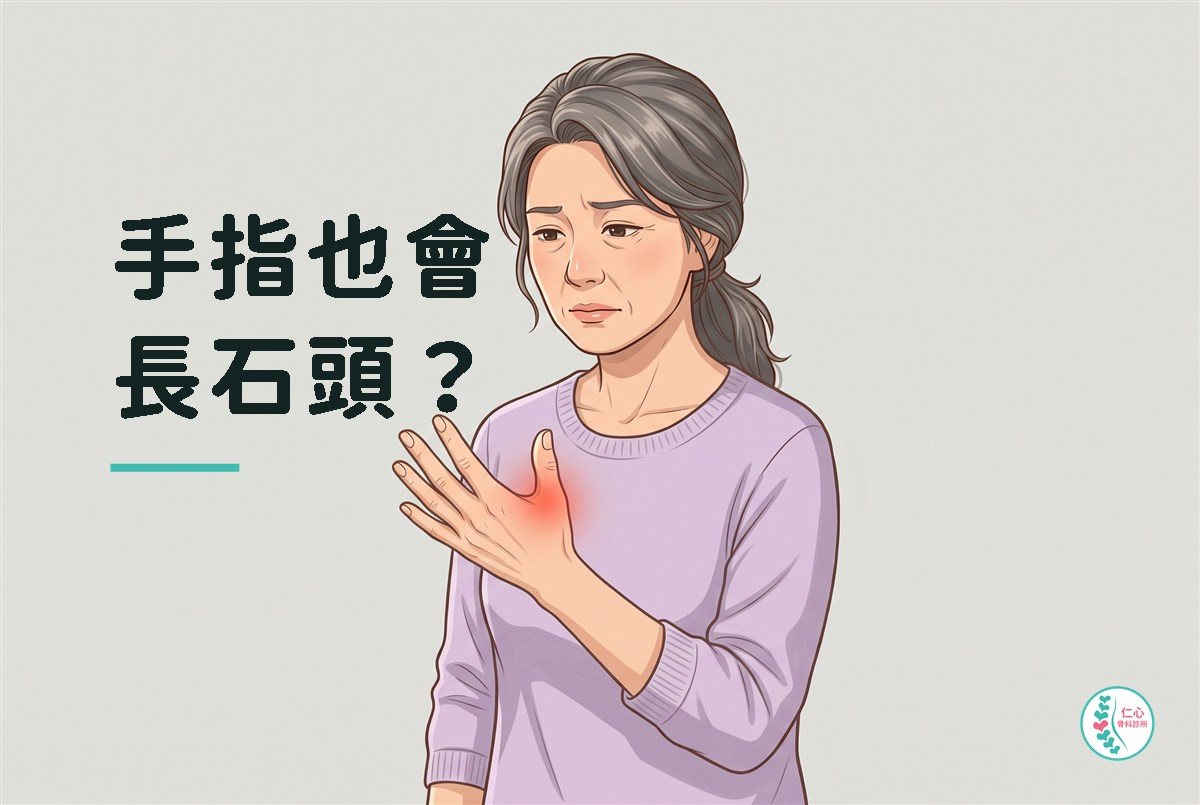
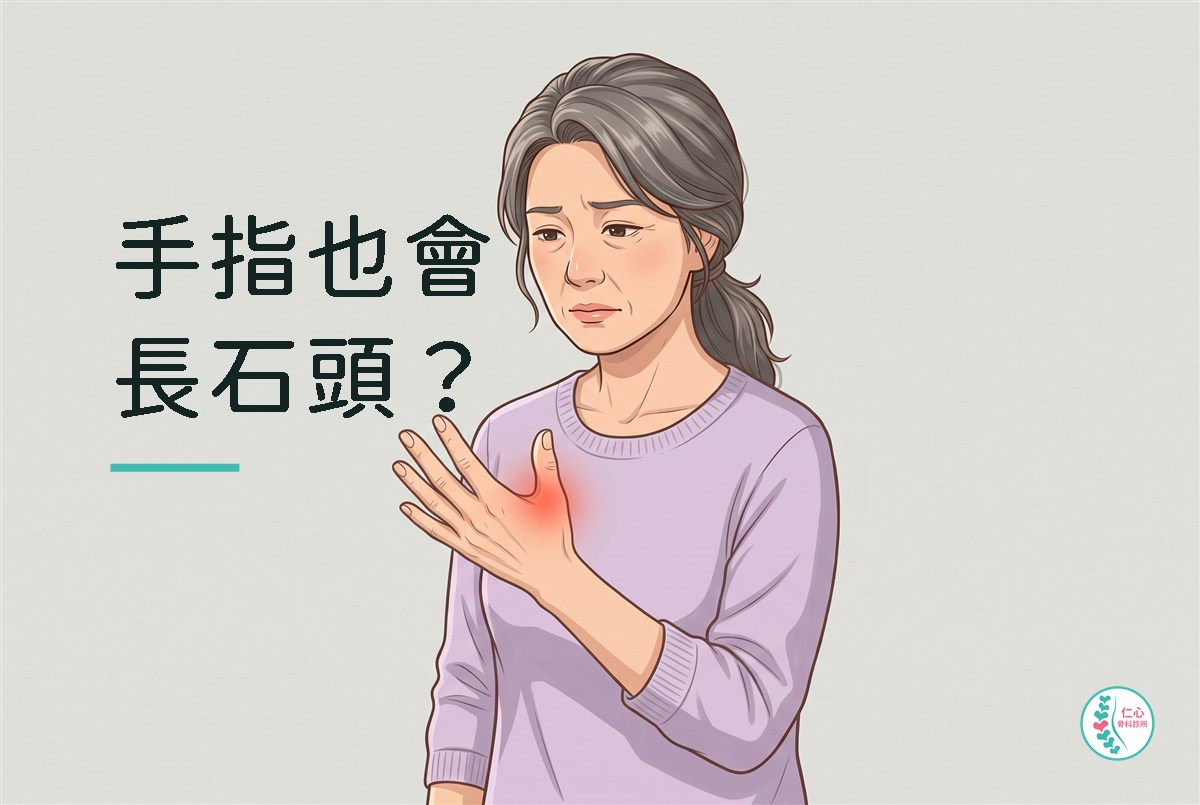
圖上的字改用 GenSenRounded JP R，全部重出

diff --git a/public/index.html b/public/index.html
@@ -210,7 +210,7 @@
       <div class="card-grid">
 <!-- POSTS:START -->
         <a class="card" href="20260914-listening/" data-tag="仁心百態">
-          <span class="card-cover"><img src="20260914-listening/assets/cover.jpg?v=8c009a86" alt="" loading="lazy" decoding="async"></span>
+          <span class="card-cover"><img src="20260914-listening/assets/cover.jpg?v=ab605e96" alt="" loading="lazy" decoding="async"></span>
           <span class="card-body">
             <span class="tag">仁心百態</span>
             <h3>講清楚，聽明白，好的快</h3>
@@ -224,7 +224,7 @@
           </span>
         </a>
         <a class="card" href="20260901-calcific-tendonitis/" data-tag="仁心講骨">
-          <span class="card-cover"><img src="20260901-calcific-tendonitis/assets/cover.jpg?v=a38b7a97" alt="" loading="lazy" decoding="async"></span>
+          <span class="card-cover"><img src="20260901-calcific-tendonitis/assets/cover.jpg?v=6b291ee7" alt="" loading="lazy" decoding="async"></span>
           <span class="card-body">
             <span class="tag">仁心講骨</span>
             <h3>手指也會長石頭？</h3>
@@ -238,7 +238,7 @@
           </span>
         </a>
         <a class="card" href="20260903-fall-tailbone/" data-tag="仁心講骨">
-          <span class="card-cover"><img src="20260903-fall-tailbone/assets/cover.jpg?v=9718a06d" alt="" loading="lazy" decoding="async"></span>
+          <span class="card-cover"><img src="20260903-fall-tailbone/assets/cover.jpg?v=98773c9d" alt="" loading="lazy" decoding="async"></span>
           <span class="card-body">
             <span class="tag">仁心講骨</span>
             <h3>跌倒頓ㄤ龜</h3>
@@ -252,7 +252,7 @@
           </span>
         </a>
         <a class="card" href="20260802-clinic-guide/" data-tag="診所公告">
-          <span class="card-cover"><img src="20260802-clinic-guide/assets/cover.jpg?v=7dd1b371" alt="" loading="lazy" decoding="async"></span>
+          <span class="card-cover"><img src="20260802-clinic-guide/assets/cover.jpg?v=dd0c01e8" alt="" loading="lazy" decoding="async"></span>
           <span class="card-body">
             <span class="tag">診所公告</span>
             <h3>就診須知，看完更順</h3>

diff --git a/public/20260914-listening/index.html b/public/20260914-listening/index.html
@@ -52,7 +52,7 @@
         <h1>講清楚，聽明白，好的快</h1>
 
         <figure class="hero-figure hero-figure--cover">
-          <img src="assets/cover.jpg?v=8c009a86"
+          <img src="assets/cover.jpg?v=ab605e96"
                width="1200" height="800" loading="eager" decoding="async" fetchpriority="high"
                alt="插畫：診間裡醫師坐在電腦前，護理師站在旁邊，一位阿嬤坐在診療椅上手裡拿著健保卡，三個人都在微笑；畫面右上角是標語「講清楚，聽明白，好的快」，右下角是仁心骨科診所標誌。">
         </figure>

diff --git a/public/20260901-calcific-tendonitis/index.html b/public/20260901-calcific-tendonitis/index.html
@@ -52,7 +52,7 @@
         <h1>手指也會長石頭？</h1>
 
         <figure class="hero-figure hero-figure--cover">
-          <img src="assets/cover.jpg?v=a38b7a97"
+          <img src="assets/cover.jpg?v=6b291ee7"
                width="1200" height="805" loading="eager" decoding="async" fetchpriority="high"
                alt="插畫：一位中年女性抬起左手看著自己的拇指，拇指根部泛紅，表情困惑不安；畫面左側是文章標題「手指也會長石頭？」，右下角是仁心骨科診所標誌。">
         </figure>

diff --git a/public/20260903-fall-tailbone/index.html b/public/20260903-fall-tailbone/index.html
@@ -52,7 +52,7 @@
         <h1>跌倒頓ㄤ龜</h1>
 
         <figure class="hero-figure hero-figure--cover">
-          <img src="assets/cover.jpg?v=9718a06d"
+          <img src="assets/cover.jpg?v=98773c9d"
                width="1200" height="805" loading="eager" decoding="async" fetchpriority="high"
                alt="插畫：一位長輩在濕滑的磁磚地上跌坐，屁股著地處泛紅，表情疼痛而錯愕，右上方寫著「跌倒頓ㄤ龜」。">
         </figure>

diff --git a/public/20260802-clinic-guide/index.html b/public/20260802-clinic-guide/index.html
@@ -55,7 +55,7 @@
         </p>
 
         <figure class="hero-figure hero-figure--cover">
-          <img src="assets/cover.jpg?v=7dd1b371"
+          <img src="assets/cover.jpg?v=dd0c01e8"
                width="1200" height="805" loading="eager" decoding="async" fetchpriority="high"
                alt="插畫：診所櫃台，醫護人員微笑接過長輩遞來的健保卡，右側牆面寫著「重要資訊」。">
         </figure>
